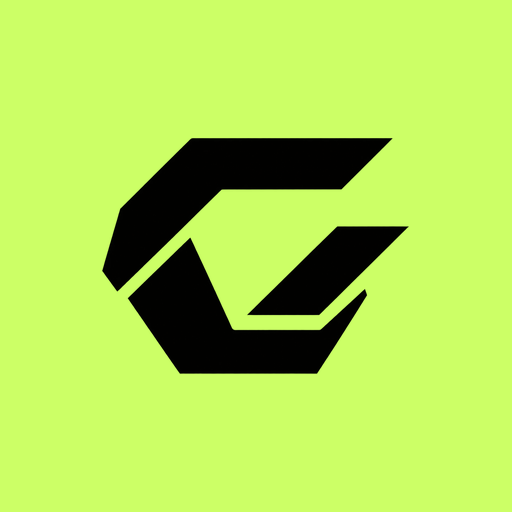
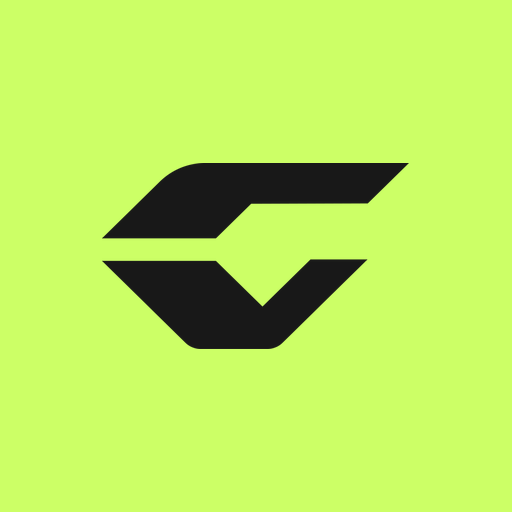
feat(brand): use the revised CreatorVerse symbol
Regenerate the favicons, app icons, OG image and brand masks from the
revised two-piece symbol master; the symbol is wider than tall, so it is
fitted by its longer side and the hero lockup is sized up to keep it
legible.

Changed region(s): [[0.1875, 0.25, 0.8125, 0.75]]

diff --git a/src/style.css b/src/style.css
@@ -39,12 +39,12 @@ p{margin:0}
   -webkit-mask-repeat:no-repeat;-webkit-mask-position:center;-webkit-mask-size:contain;
 }
 .brand-logo{
-  aspect-ratio:1200 / 202;
+  aspect-ratio:1200 / 267;
   mask-image:url("/brand/creatorverse-horizontal.png");
   -webkit-mask-image:url("/brand/creatorverse-horizontal.png");
 }
 .brand-symbol{
-  aspect-ratio:665 / 512;
+  aspect-ratio:800 / 485;
   mask-image:url("/brand/creatorverse-symbol.png");
   -webkit-mask-image:url("/brand/creatorverse-symbol.png");
 }
@@ -108,7 +108,7 @@ main{position:relative;z-index:2;height:100dvh;height:100vh}
   color:var(--lime);
   /* clear space 0.25 H on all sides */
   padding:calc(var(--brand-logo-h) * .25);
-  --brand-logo-h:clamp(44px, 9vw, 84px);
+  --brand-logo-h:clamp(52px, 10vw, 100px);
 }
 .hero__headline{
   margin-top:clamp(20px, 4vw, 36px);
@@ -148,7 +148,7 @@ main{position:relative;z-index:2;height:100dvh;height:100vh}
 
 @media(max-width:620px){
   .hero{padding-inline:16px}
-  .hero__lockup{--brand-logo-h:clamp(40px, 13vw, 56px)}
+  .hero__lockup{--brand-logo-h:clamp(44px, 14vw, 64px)}
 }
 
 /* intro: lockup first, then the copy */

diff --git a/scripts/brand-assets.py b/scripts/brand-assets.py
@@ -18,11 +18,15 @@ from PIL import Image
 LIME = (204, 255, 102, 255)  # brand lime #CCFF66
 MASTERS = {
     "creatorverse-horizontal.png": ("combined/CreatorVerse-logo-horizontal.png", 1200, None),
-    "creatorverse-symbol.png": ("components/CreatorVerse-symbol-CV04-D.png", None, 512),
+    "creatorverse-symbol.png": ("components/CreatorVerse-symbol.png", 800, None),
 }
-# icon file -> (side, symbol fill). 60 % keeps >= 0.25 H clear space and the
-# maskable safe zone; the two small favicons use more so the symbol's inner cut
-# stays visible (guideline: enlarge the logo when the gap is not clearly visible).
+# icon file -> (side, symbol fill). The symbol is wider than tall (about 1.65:1,
+# two separate pieces), so fill is the share of the square that its LONGER side
+# (the width) takes; clear space is then even left and right and larger above and
+# below. 60 % keeps >= 0.25 H clear space and the maskable safe zone (the corners
+# stay inside the 80 % circle); the two small favicons use more so the gap between
+# the pieces stays visible (guideline: enlarge the logo when the gap is not clearly
+# visible).
 ICONS = {
     "favicon-16x16.png": (16, 0.84),
     "favicon-32x32.png": (32, 0.80),
@@ -56,9 +60,10 @@ def resize(image: Image.Image, width: int | None, height: int | None) -> Image.I
 
 
 def fit(image: Image.Image, limit: int) -> Image.Image:
-    """Scale so the longest side equals limit."""
-    scale = limit / max(image.size)
-    return resize(image, max(1, round(image.width * scale)), None)
+    """Scale so the longer side equals limit, whichever side that is."""
+    if image.width >= image.height:
+        return resize(image, limit, None)
+    return resize(image, None, limit)
 
 
 def on_lime(logo: Image.Image, size: tuple[int, int]) -> Image.Image:

diff --git a/README.md b/README.md
@@ -19,7 +19,7 @@ npm run preview  # http://localhost:4173
   PNG di `public/brand/` (bentuk hitam pada alpha), dirender lewat CSS mask
   (`.brand-logo`, `.brand-symbol`) sehingga warnanya mengikuti `currentColor`.
   Wordmark tidak pernah diketik ulang; teks baca `CreatorVerse` ada di `.sr-only`.
-  Ruang bebas 0,25 H dijaga lewat padding; tinggi lockup minimum 40 px di 375 px.
+  Ruang bebas 0,25 H dijaga lewat padding; tinggi lockup minimum 44 px (52 px di 375 px).
 - **Warna**: hitam `#171717` sebagai bidang, lime `#CCFF66` satu-satunya aksen
   (logo, grid, bar EQ), abu-abu `#CCCCCC` untuk teks sekunder dan garis, putih
   untuk judul. Oranye `#FF6633` tidak dipakai di halaman ini.
@@ -48,7 +48,7 @@ Favicon (`favicon.ico` 16/32/48, `favicon-16x16.png`, `favicon-32x32.png`),
 `apple-touch-icon.png`, `android-chrome-192x192.png`, `android-chrome-512x512.png`,
 `og-image.png` (1200×630), dan `public/brand/*.png` dibuat dari master logo di
 Dream `40_operations/brand/` oleh `scripts/brand-assets.py` (pendekatan yang sama
-dengan `Platform/scripts/brand-assets.py`): simbol atau lockup hitam di atas lime.
+dengan `Platform/scripts/brand-assets.py`): simbol atau lockup tinta `#181818` di atas lime.
 Master hanya tersedia sebagai PNG, jadi `favicon.svg` dan `og-image.svg` lama
 dihapus. `site.webmanifest` memakai `#171717` untuk theme dan background.
 
